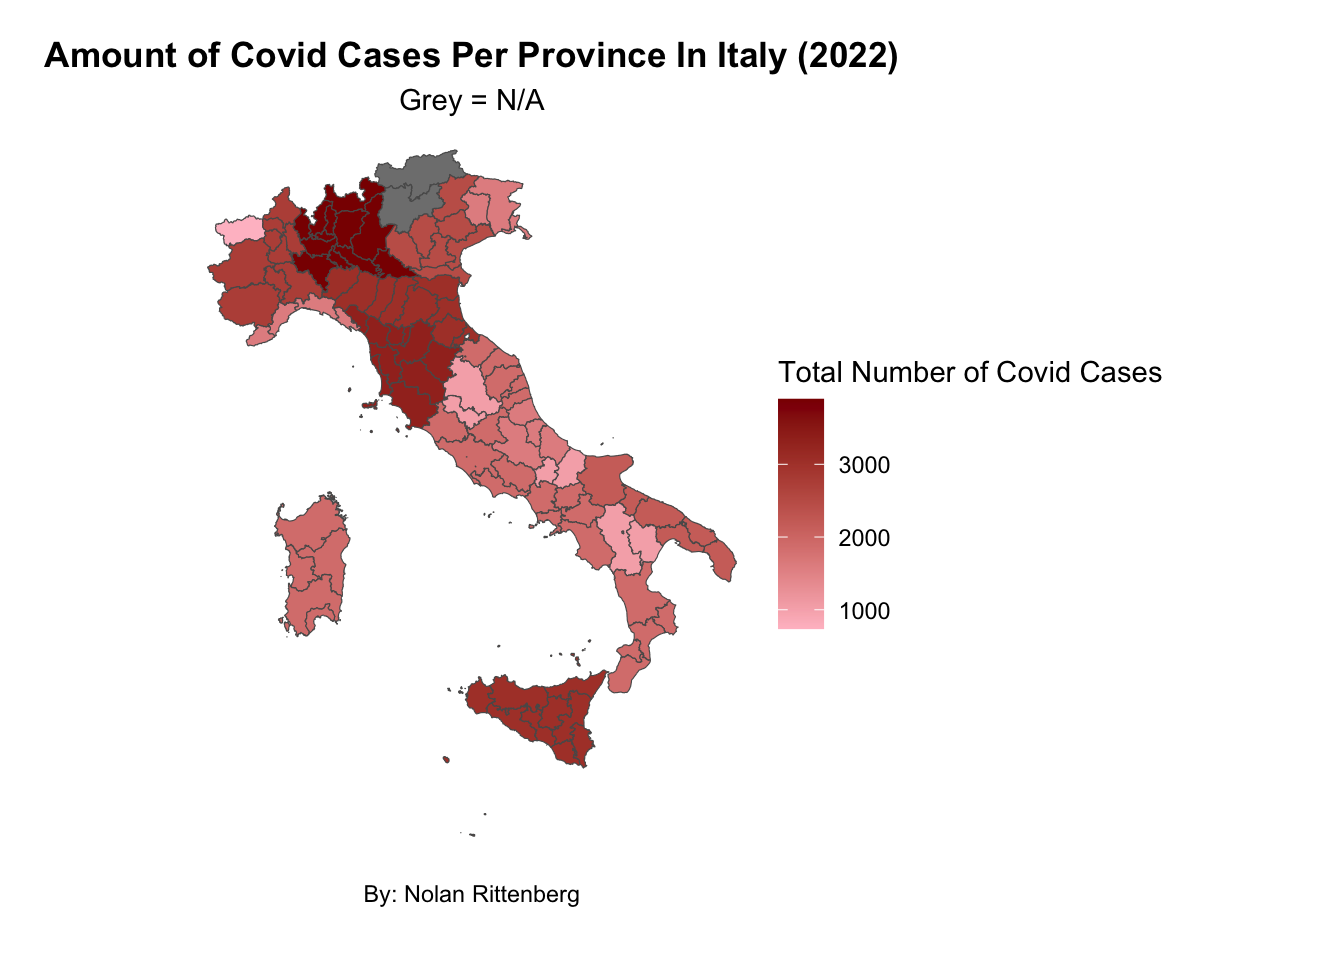
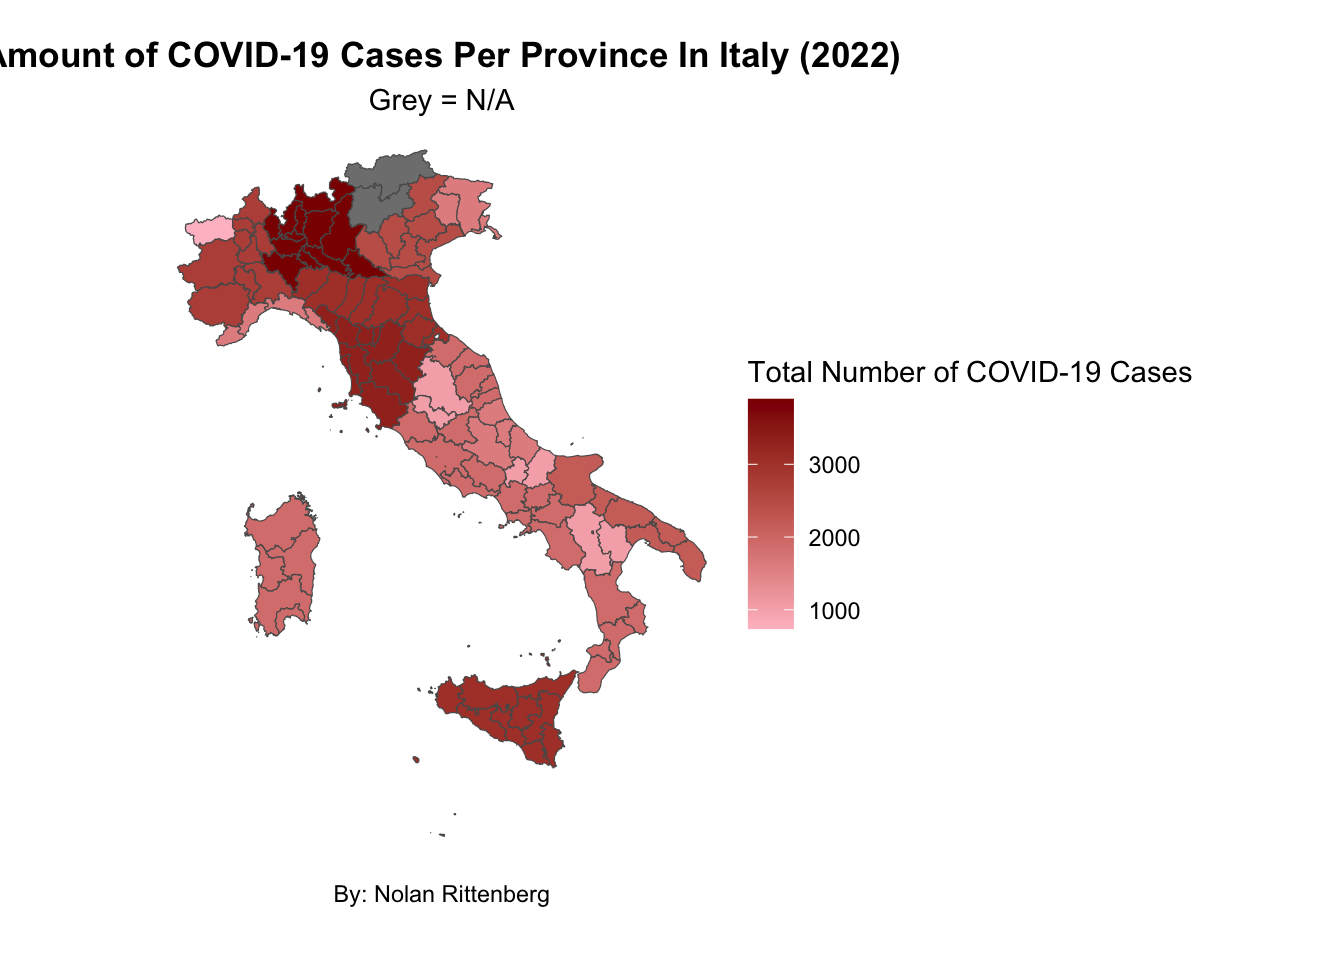
Built site for gh-pages

diff --git a/bw/Project1_choropleth_map.html b/bw/Project1_choropleth_map.html
@@ -291,9 +291,9 @@ dttm (1): Date
 <span id="cb9-15"><a href="#cb9-15"></a>  <span class="fu">scale_fill_gradient</span>(</span>
 <span id="cb9-16"><a href="#cb9-16"></a>    <span class="at">low =</span> <span class="st">"pink"</span>,</span>
 <span id="cb9-17"><a href="#cb9-17"></a>    <span class="at">high =</span> <span class="st">"darkred"</span>,</span>
-<span id="cb9-18"><a href="#cb9-18"></a>    <span class="at">name =</span> <span class="st">"Total Number of Covid Cases"</span></span>
+<span id="cb9-18"><a href="#cb9-18"></a>    <span class="at">name =</span> <span class="st">"Total Number of COVID-19 Cases"</span></span>
 <span id="cb9-19"><a href="#cb9-19"></a>  ) <span class="sc">+</span> </span>
-<span id="cb9-20"><a href="#cb9-20"></a>  <span class="fu">labs</span>(<span class="at">title =</span> <span class="st">"Amount of Covid Cases Per Province In Italy (2022)"</span>, </span>
+<span id="cb9-20"><a href="#cb9-20"></a>  <span class="fu">labs</span>(<span class="at">title =</span> <span class="st">"Amount of COVID-19 Cases Per Province In Italy (2022)"</span>, </span>
 <span id="cb9-21"><a href="#cb9-21"></a>       <span class="at">subtitle =</span> <span class="st">"Grey = N/A"</span>, </span>
 <span id="cb9-22"><a href="#cb9-22"></a>       <span class="at">caption =</span> <span class="st">"By: Nolan Rittenberg"</span>) <span class="sc">+</span> </span>
 <span id="cb9-23"><a href="#cb9-23"></a>  <span class="fu">theme_void</span>() <span class="sc">+</span> </span>
@@ -311,6 +311,7 @@ dttm (1): Date
 </div>
 <div class="sourceCode cell-code" id="cb10"><pre class="sourceCode numberSource r number-lines code-with-copy"><code class="sourceCode r"><span id="cb10-1"><a href="#cb10-1"></a><span class="co"># region_cases are NA for the provinces, Bolzano and Trento. This dataset does not have data for the covid cases in Bolzano and Trento. </span></span></code><button title="Copy to Clipboard" class="code-copy-button"><i class="bi"></i></button></pre></div>
 </div>
+<p>In the Year 2022, Italy was hit hard by COVID-19. Italy was at the forefront of Europe’s ongoing challenge with COVID-19. The most common areas and provinces for tourism in Italy are very similar to the areas and provinces that had the highest amount of COVID-19 cases. Tourism is a large part of Italy’s economy, which makes the implication of COVID-19 regulations particularly challenging. In 2022, Italy understandably decreased their COVID-19 travel regulations however, this led to a serious increase in the number of COVID-19 cases because the most affected areas by COVID-19 were also the most visited areas by tourists.</p>
 
 
 <!-- -->
@@ -987,9 +988,9 @@ window.document.addEventListener("DOMContentLoaded", function (event) {
 <span id="cb11-45"><a href="#cb11-45"></a>  <span class="fu">scale_fill_gradient</span>(</span>
 <span id="cb11-46"><a href="#cb11-46"></a>    <span class="at">low =</span> <span class="st">"pink"</span>,</span>
 <span id="cb11-47"><a href="#cb11-47"></a>    <span class="at">high =</span> <span class="st">"darkred"</span>,</span>
-<span id="cb11-48"><a href="#cb11-48"></a>    <span class="at">name =</span> <span class="st">"Total Number of Covid Cases"</span></span>
+<span id="cb11-48"><a href="#cb11-48"></a>    <span class="at">name =</span> <span class="st">"Total Number of COVID-19 Cases"</span></span>
 <span id="cb11-49"><a href="#cb11-49"></a>  ) <span class="sc">+</span> </span>
-<span id="cb11-50"><a href="#cb11-50"></a>  <span class="fu">labs</span>(<span class="at">title =</span> <span class="st">"Amount of Covid Cases Per Province In Italy (2022)"</span>, </span>
+<span id="cb11-50"><a href="#cb11-50"></a>  <span class="fu">labs</span>(<span class="at">title =</span> <span class="st">"Amount of COVID-19 Cases Per Province In Italy (2022)"</span>, </span>
 <span id="cb11-51"><a href="#cb11-51"></a>       <span class="at">subtitle =</span> <span class="st">"Grey = N/A"</span>, </span>
 <span id="cb11-52"><a href="#cb11-52"></a>       <span class="at">caption =</span> <span class="st">"By: Nolan Rittenberg"</span>) <span class="sc">+</span> </span>
 <span id="cb11-53"><a href="#cb11-53"></a>  <span class="fu">theme_void</span>() <span class="sc">+</span> </span>
@@ -1005,7 +1006,7 @@ window.document.addEventListener("DOMContentLoaded", function (event) {
 <span id="cb11-63"><a href="#cb11-63"></a></span>
 <span id="cb11-64"><a href="#cb11-64"></a><span class="in">```</span></span>
 <span id="cb11-65"><a href="#cb11-65"></a></span>
-<span id="cb11-66"><a href="#cb11-66"></a></span>
+<span id="cb11-66"><a href="#cb11-66"></a>  In the Year 2022, Italy was hit hard by COVID-19. Italy was at the forefront of Europe's ongoing challenge with COVID-19. The most common areas and provinces for tourism in Italy are very similar to the areas and provinces that had the highest amount of COVID-19 cases. Tourism is a large part of Italy's economy, which makes the implication of COVID-19 regulations particularly challenging. In 2022, Italy understandably decreased their COVID-19 travel regulations however, this led to a serious increase in the number of COVID-19 cases because the most affected areas by COVID-19 were also the most visited areas by tourists. </span>
 <span id="cb11-67"><a href="#cb11-67"></a></span>
 <span id="cb11-68"><a href="#cb11-68"></a></span>
 <span id="cb11-69"><a href="#cb11-69"></a></span>

diff --git a/index.html b/index.html
@@ -5,7 +5,7 @@
 <meta name="generator" content="quarto-1.5.57">
 <meta name="viewport" content="width=device-width, initial-scale=1.0, user-scalable=yes">
 <meta name="author" content="Nolan Rittenberg">
-<meta name="dcterms.date" content="2025-04-04">
+<meta name="dcterms.date" content="2025-04-07">
 <title>COMP/STAT112 Notebook</title>
 <style>
 code{white-space: pre-wrap;}
@@ -244,7 +244,7 @@ pre > code.sourceCode > span > a:first-child::before { text-decoration: underlin
     <div>
     <div class="quarto-title-meta-heading">Published</div>
     <div class="quarto-title-meta-contents">
-      <p class="date">April 4, 2025</p>
+      <p class="date">April 7, 2025</p>
     </div>
   </div>
   
